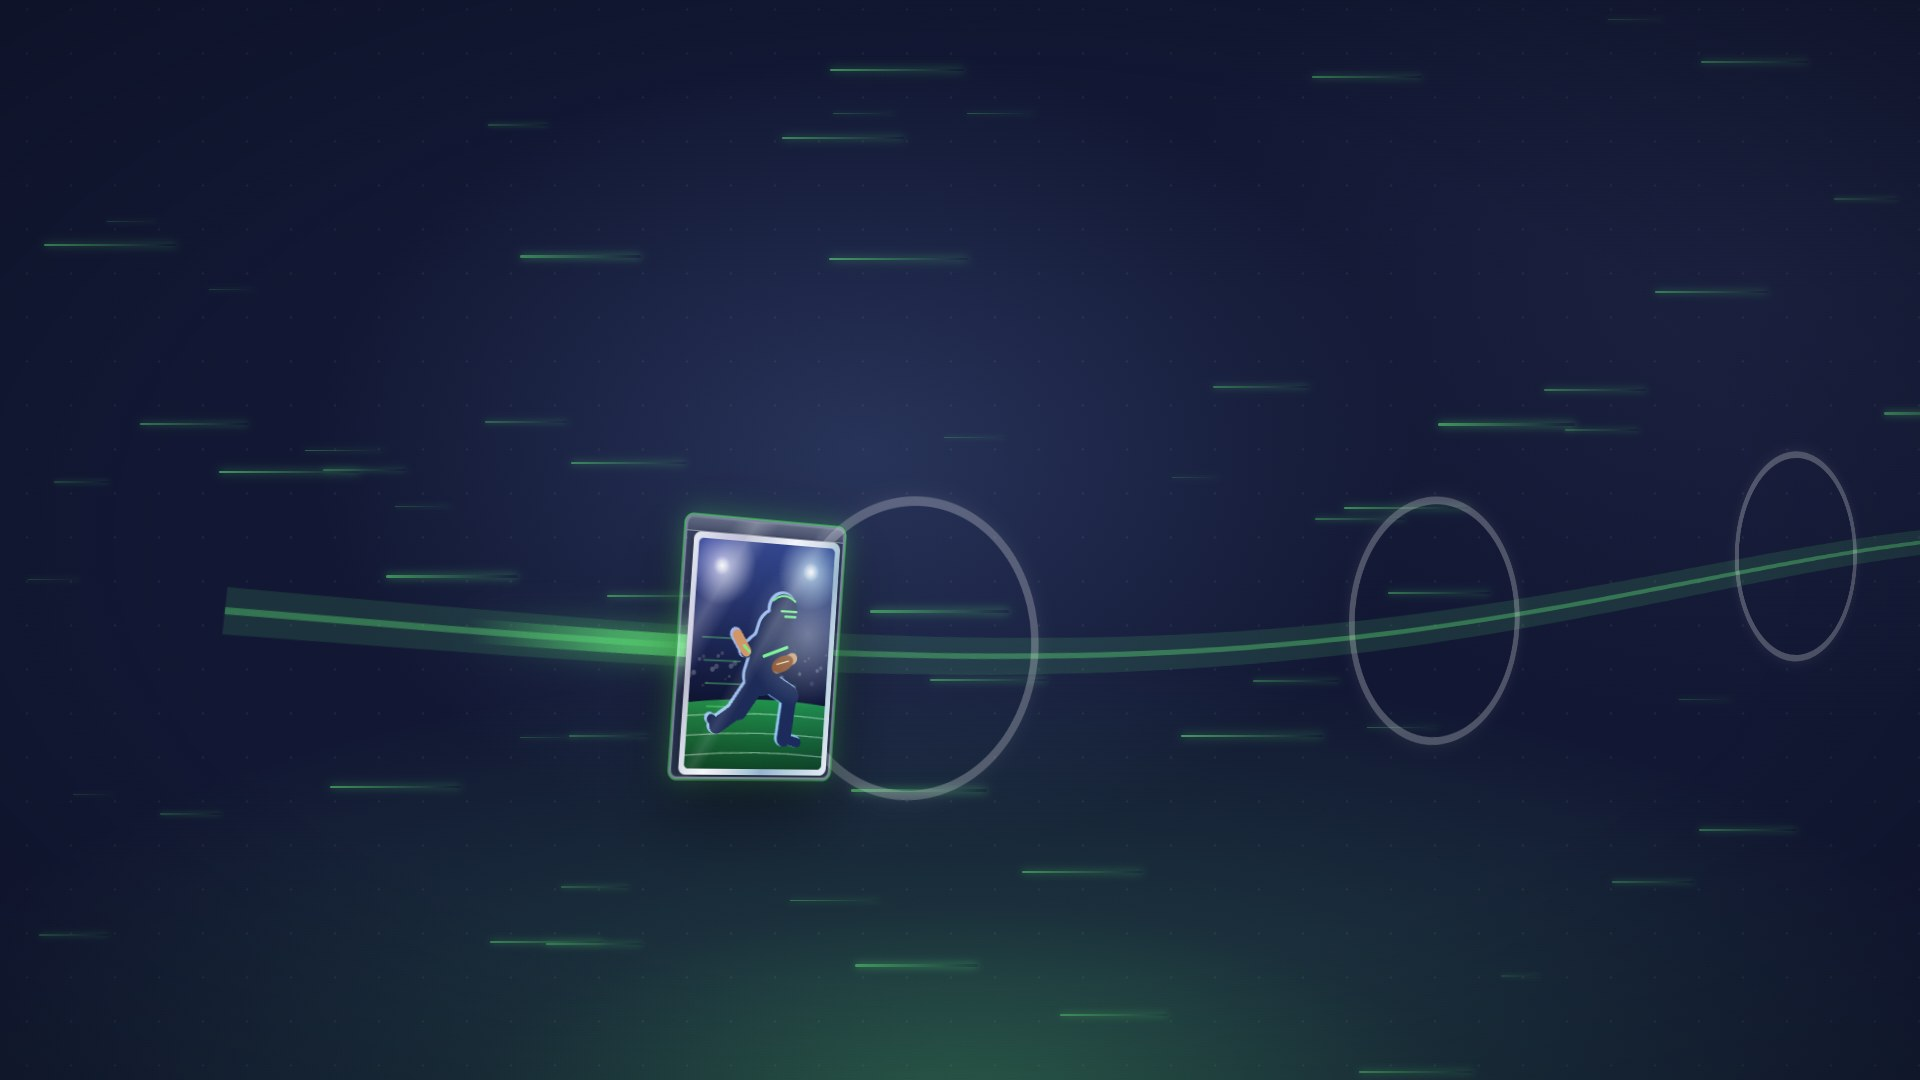
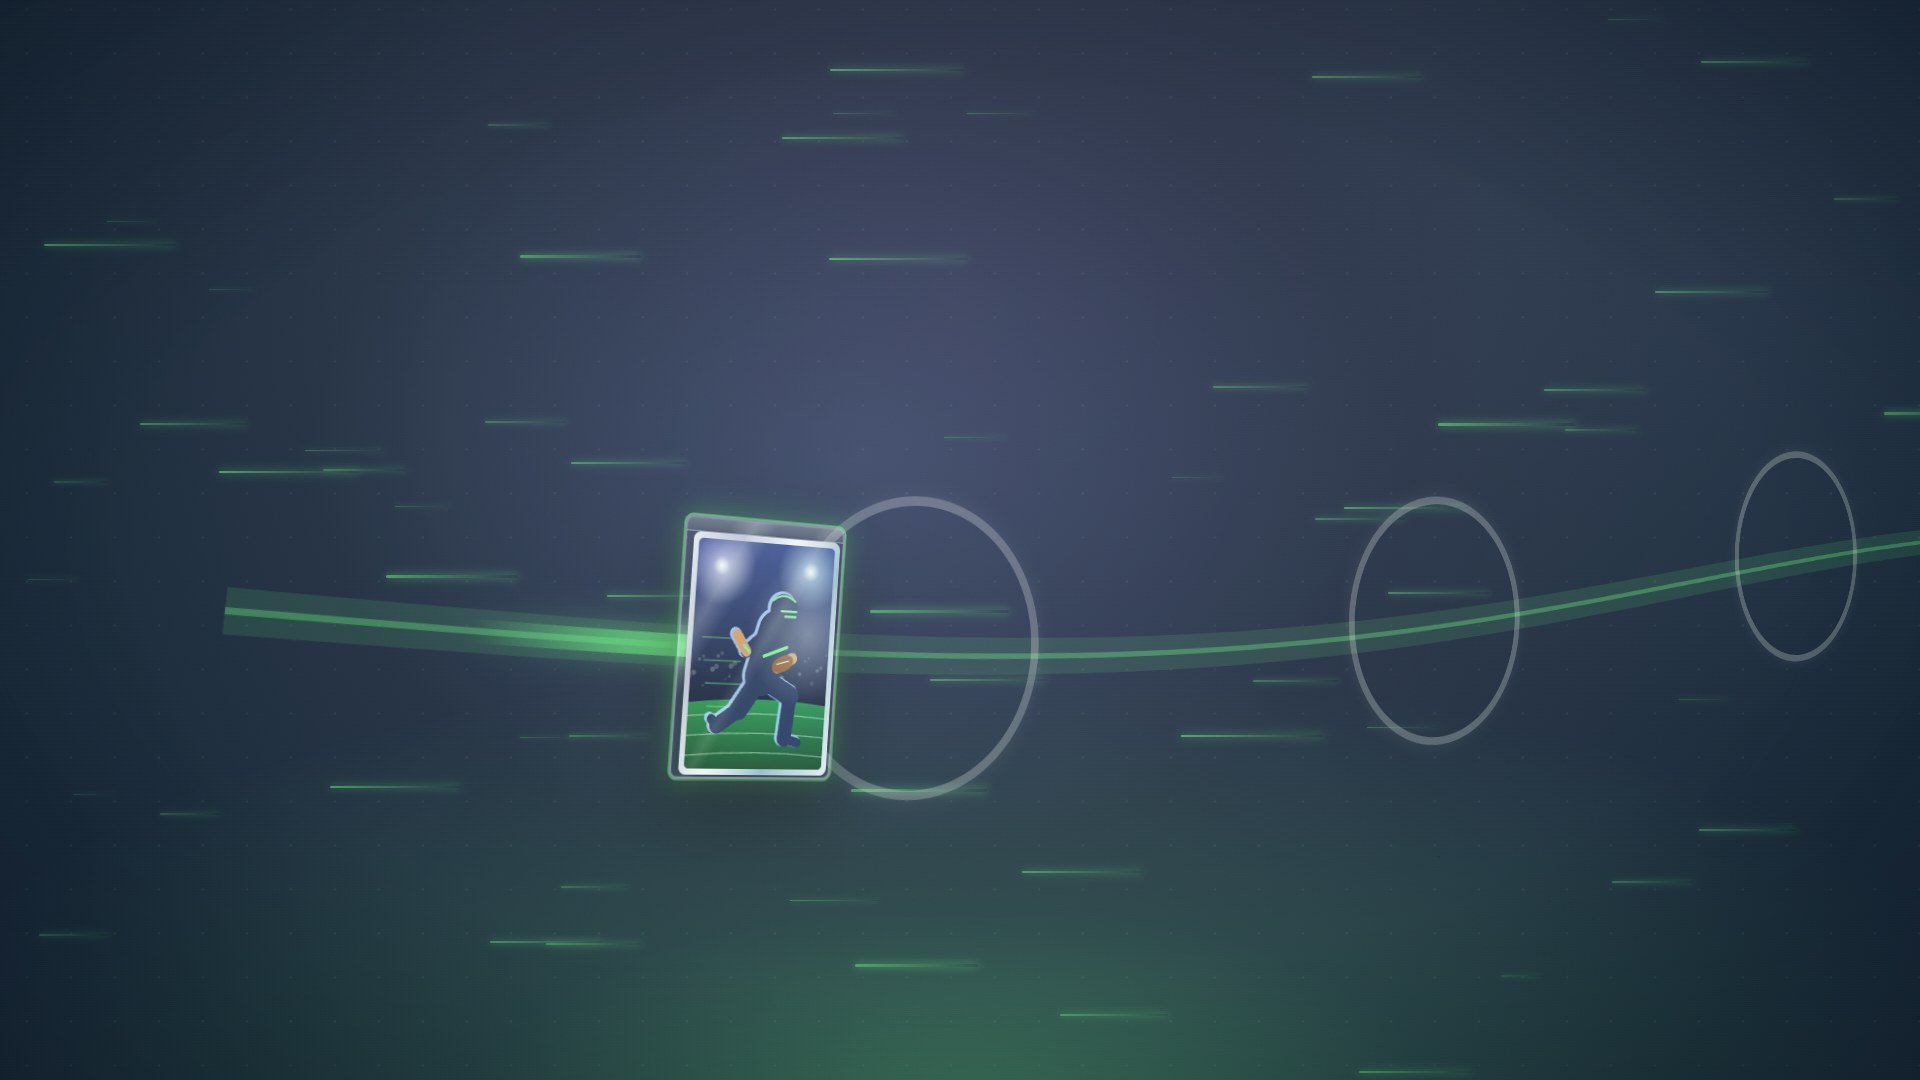
Clear the S12C bloom at the start of S13; add Kit still and README
Claude-Session: https://claude.ai/code/session_014G9TY6fdNXqu1uLzMhuLb9

diff --git a/icollecta-saas-explainer/src/scenes/S13_Journey.tsx b/icollecta-saas-explainer/src/scenes/S13_Journey.tsx
@@ -1,7 +1,7 @@
 import { ArrowLeftRight, BadgeDollarSign, LayoutGrid, ScanLine, ShoppingCart, Tag } from "lucide-react";
 import { AbsoluteFill, interpolate, useCurrentFrame } from "remotion";
 import { Gate } from "../components/Data";
-import { ParticleField } from "../components/FX";
+import { Flash, ParticleField } from "../components/FX";
 import { TradingCard } from "../components/TradingCard";
 import { cam, ease, lerpF } from "../lib/anim";
 import { C } from "../theme";
@@ -77,6 +77,8 @@ export const S13_Journey: React.FC = () => {
           </div>
         </AbsoluteFill>
       </AbsoluteFill>
+      {/* the S12C bloom clears */}
+      <Flash opacity={lerpF(frame, [0, 6], [0.95, 0])} y={300} radius={1500} />
     </AbsoluteFill>
   );
 };
